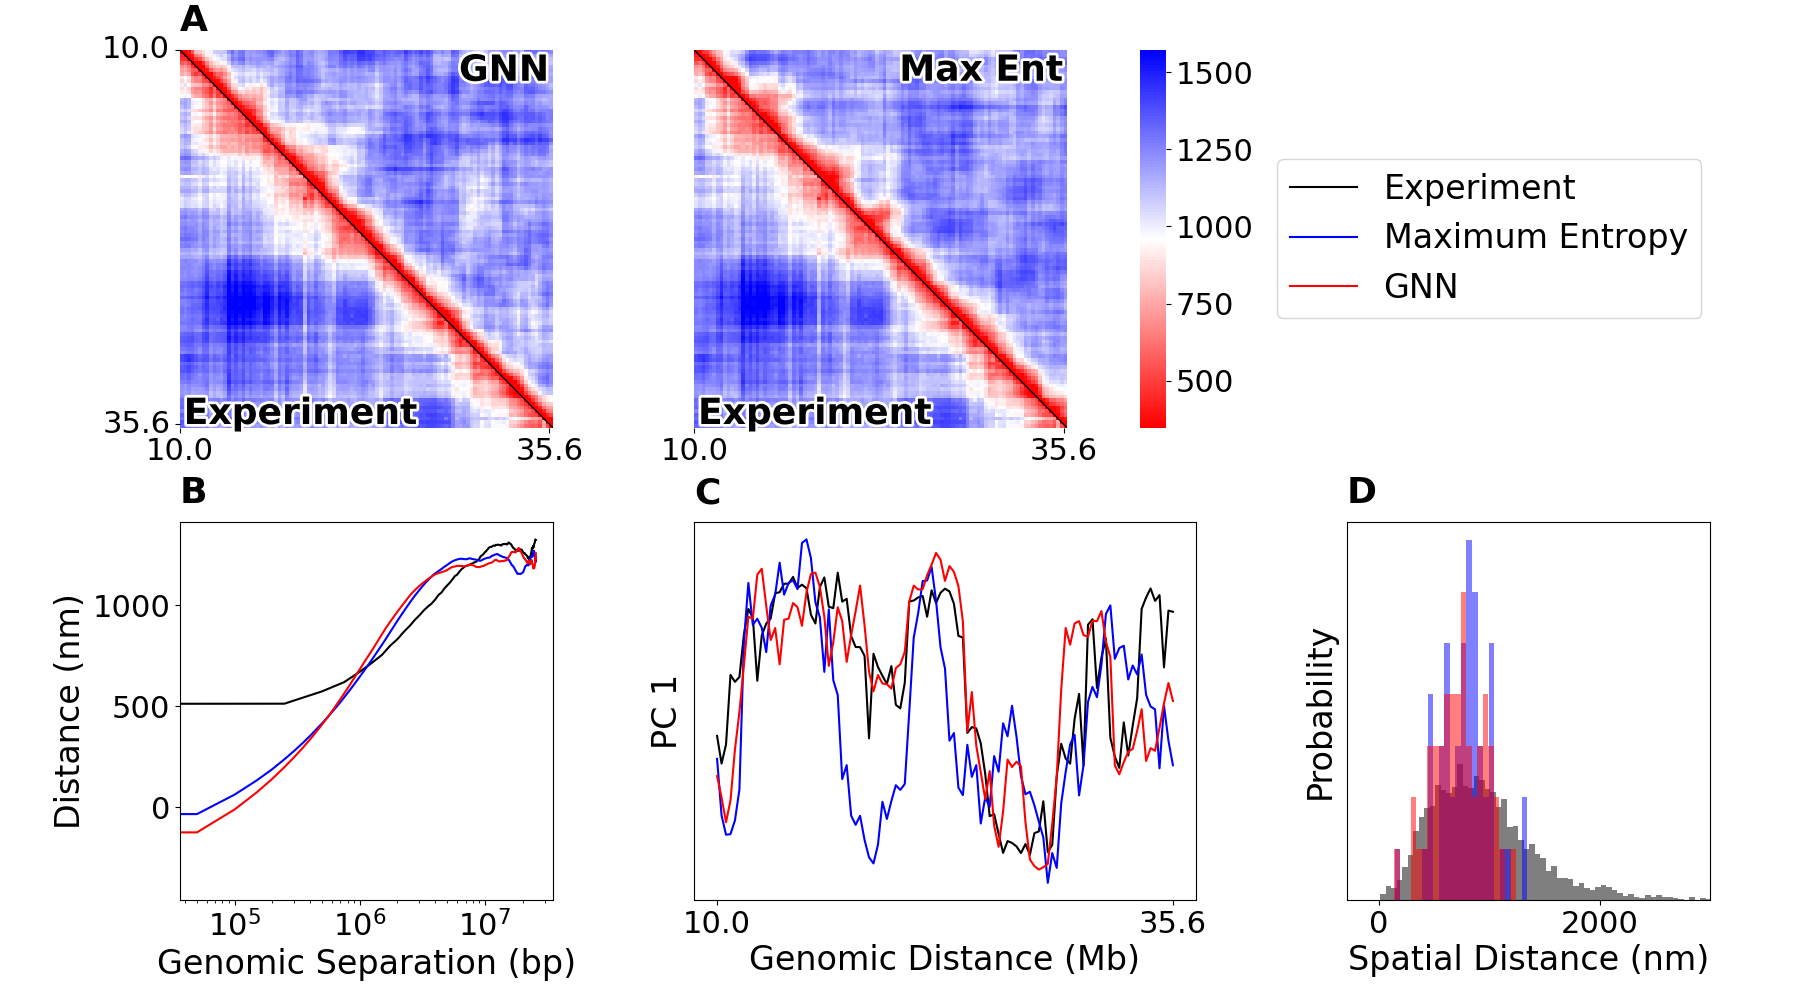
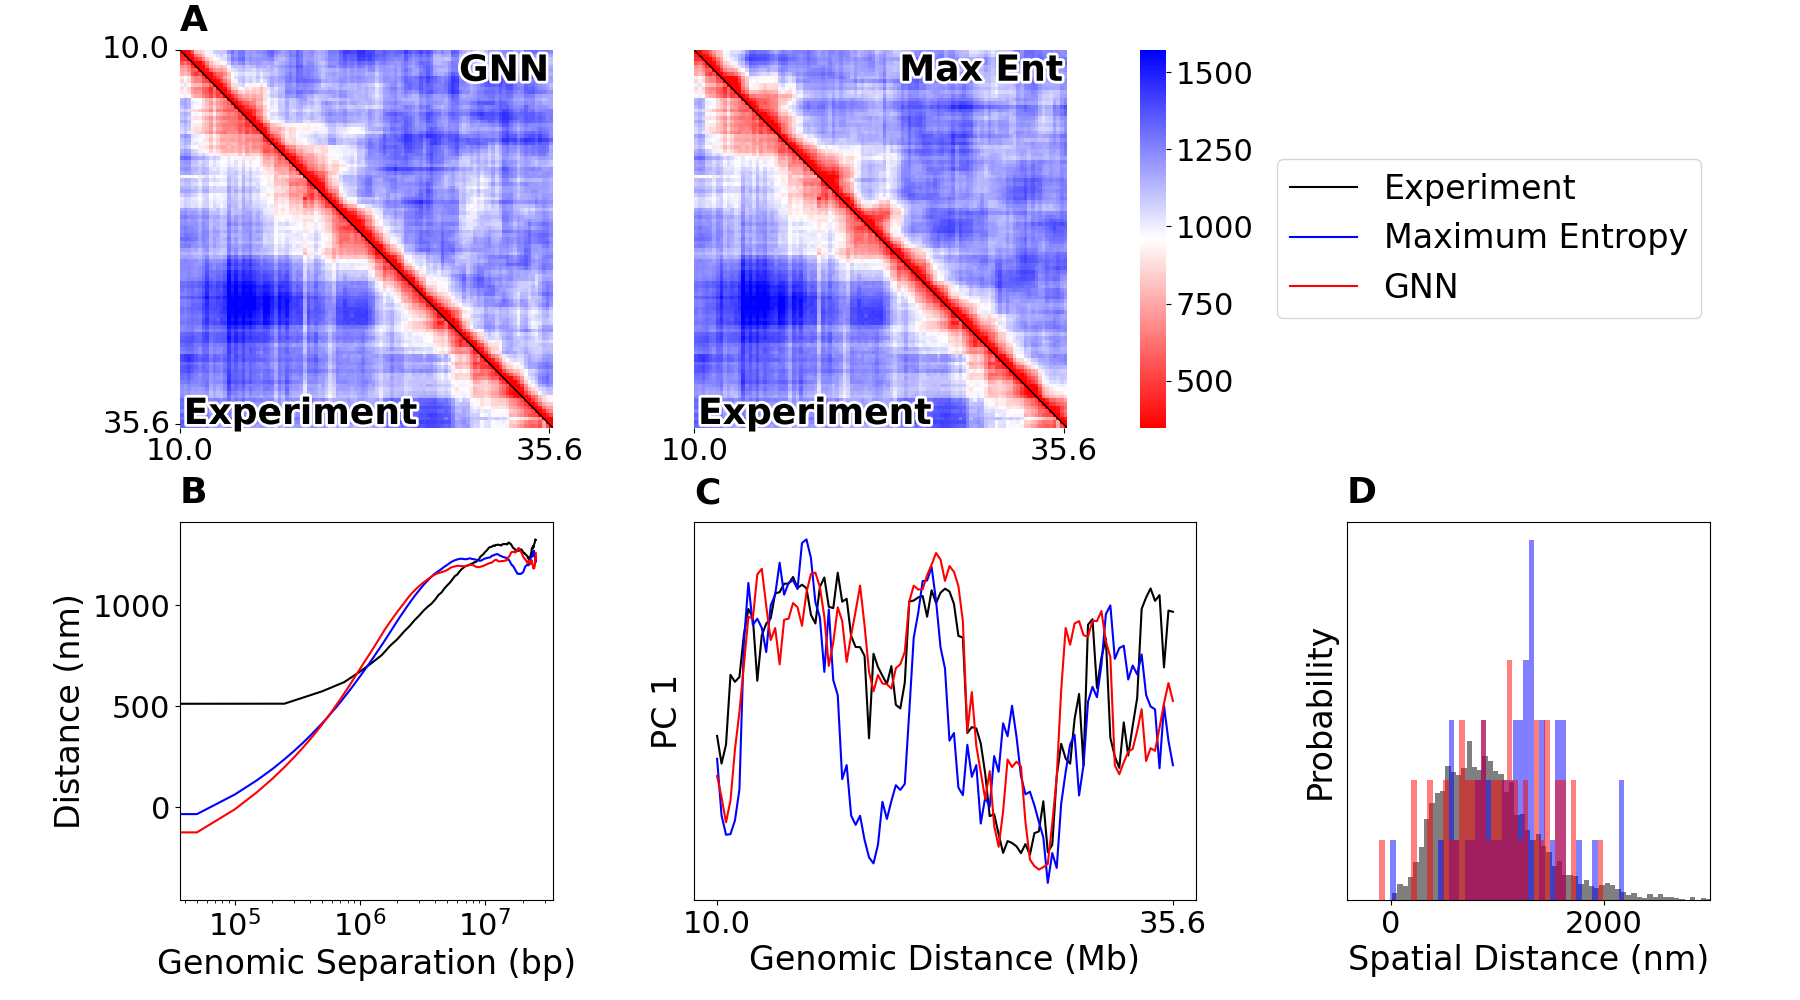
image

Changed region(s): [[0.7467, 0.558, 0.9333, 0.93]]

diff --git a/scripts/distances_Su2020/figures.py b/scripts/distances_Su2020/figures.py
@@ -65,10 +65,10 @@ def old_figure(sample, GNN_ID, bl=140, phi=0.03):
     D, D_gnn, D_pca = load_exp_gnn_pca(dir, GNN_ID, b=bl, phi=phi)
     nan_rows = np.isnan(D[0])
     D_no_nan = D[~nan_rows][:, ~nan_rows] # ignore nan_rows
-    D_pca = rescale_mu_sigma(D, D_pca)
-    D_gnn = rescale_mu_sigma(D, D_gnn)
     mu_D_pca, sigma_D_pca, mu_D, sigma_D = rescale_mu_sigma(D, D_pca, True)
     mu_D_gnn, sigma_D_gnn, _, _ = rescale_mu_sigma(D, D_gnn, True)
+    D_pca = rescale_mu_sigma(D, D_pca)
+    D_gnn = rescale_mu_sigma(D, D_gnn)
     # alpha_pca = min_MSE(D_no_nan, D_pca[~nan_rows][:, ~nan_rows])
     # alpha_gnn = min_MSE(D_no_nan, D_gnn[~nan_rows][:, ~nan_rows])
     alpha_pca = 1; alpha_gnn = 1
@@ -118,7 +118,10 @@ def old_figure(sample, GNN_ID, bl=140, phi=0.03):
     file = osp.join(final_dir, 'production_out/output.xyz')
     xyz_max_ent = xyz_load(file, multiple_timesteps = True) * alpha_pca
     dist_max_ent = dist_distribution_a_b(xyz_max_ent, a - shift, b - shift)
+    print(dist_max_ent)
+    print(mu_D_pca, mu_D, sigma_D_pca, sigma_D)
     dist_max_ent = (dist_max_ent - mu_D_pca)/sigma_D_pca * sigma_D + mu_D
+    print(dist_max_ent)
 
     if gnn_dir is not None and osp.exists(gnn_dir):
         file = osp.join(gnn_dir, 'production_out/output.xyz')
